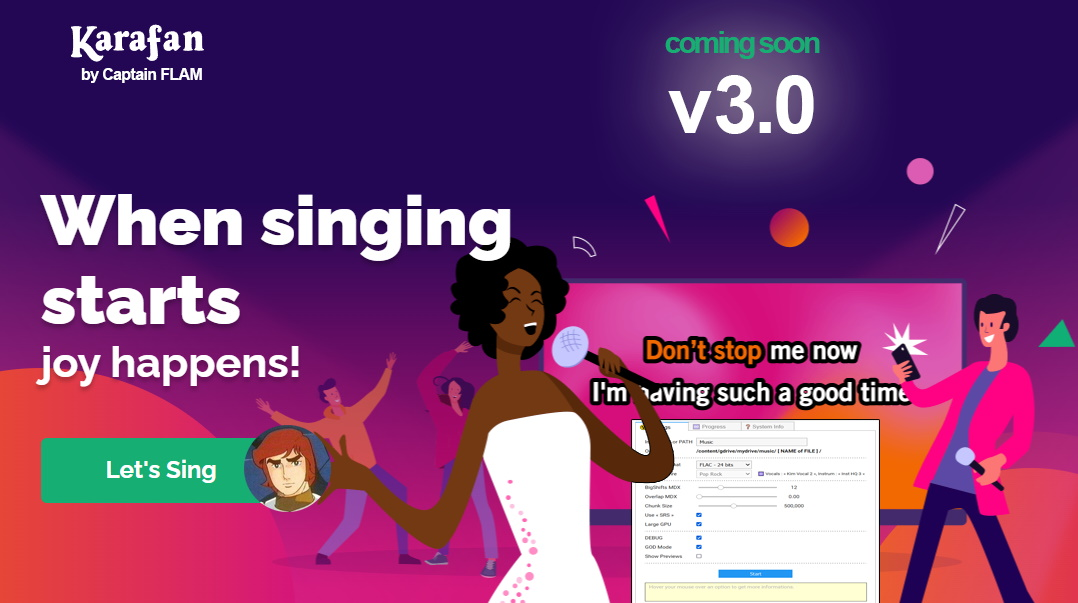
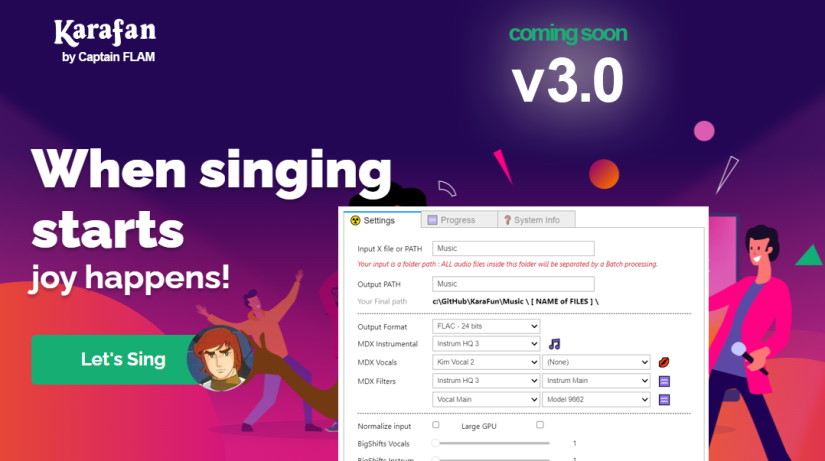
3.0

Changed region(s): [[0.3939, 0.4252, 0.8788, 1.0]]

diff --git a/README.md b/README.md
@@ -7,7 +7,7 @@ This project is **open to all goodwill**.
 
 The Discord community, Chat-GPT & GitHub Copilot ...  and my human intelligence made this project possible.
 
-[![KaraFan](images/KaraFan_mini.png)](images/KaraFan.png)
+![KaraFan](images/KaraFan_3.0.jpg)
 
 KaraFan works with **Google Colab** or if you have a decent GPU, on **Your PC** with Visual Studio Code or with a command line in a shell !!
 
